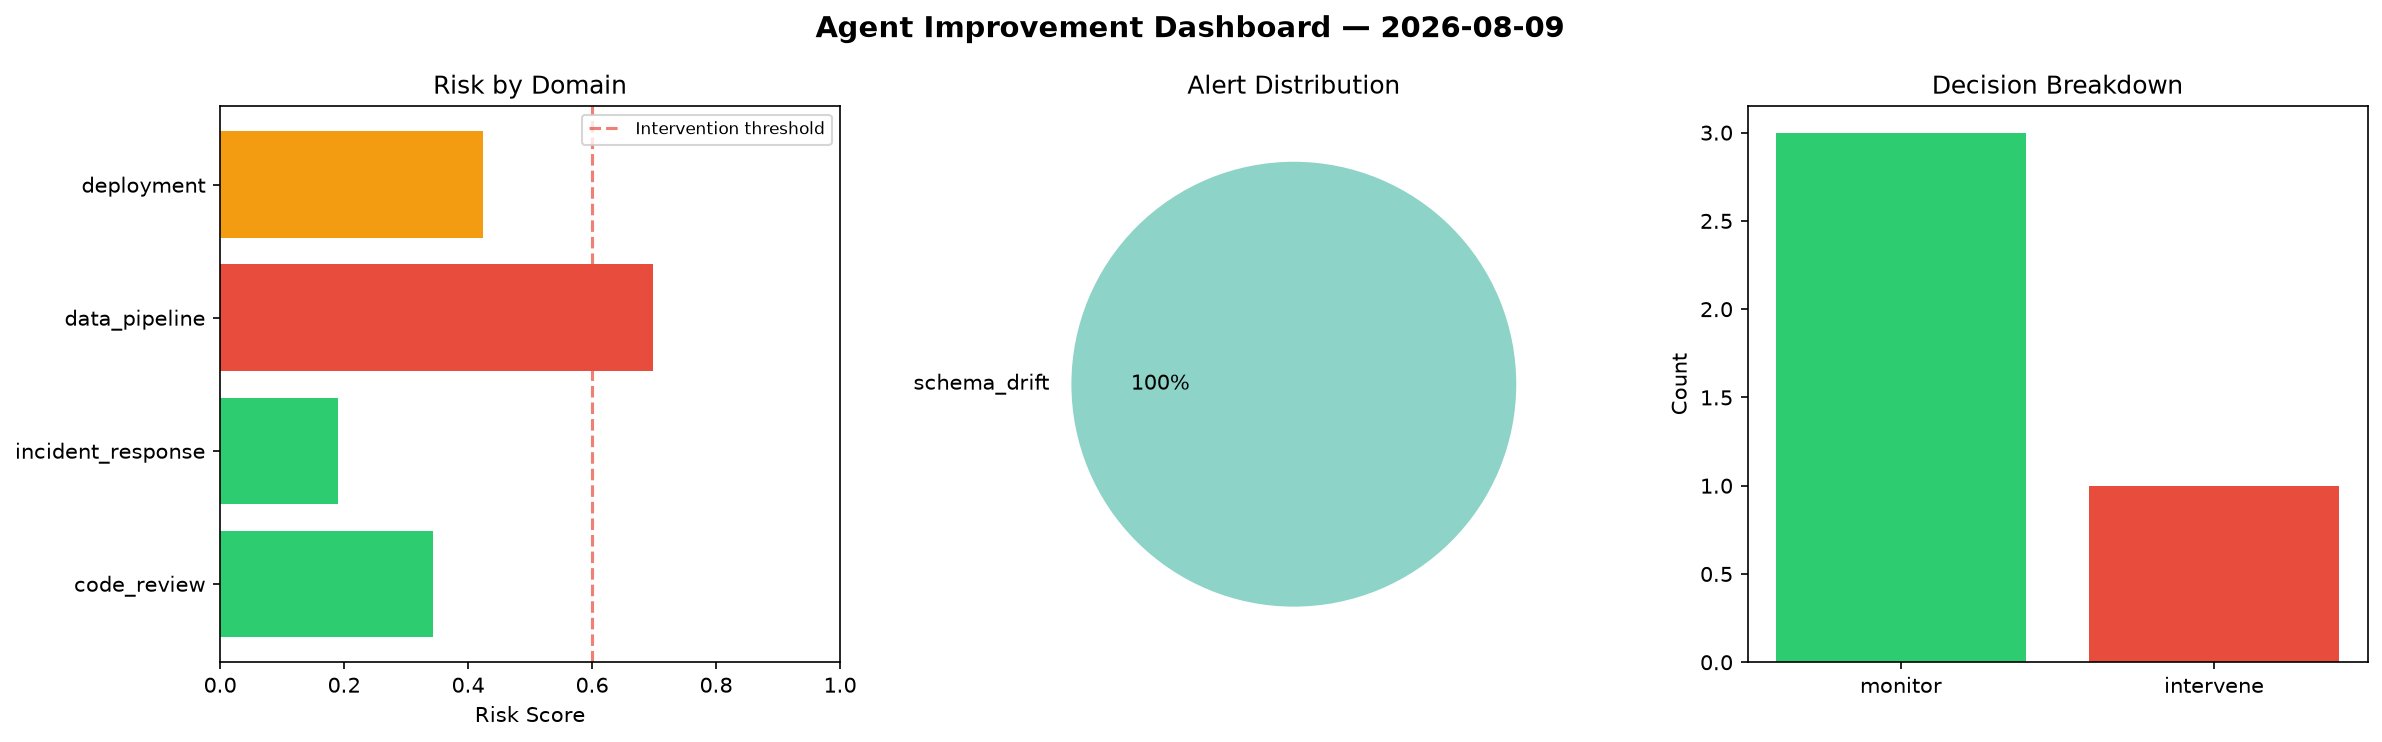
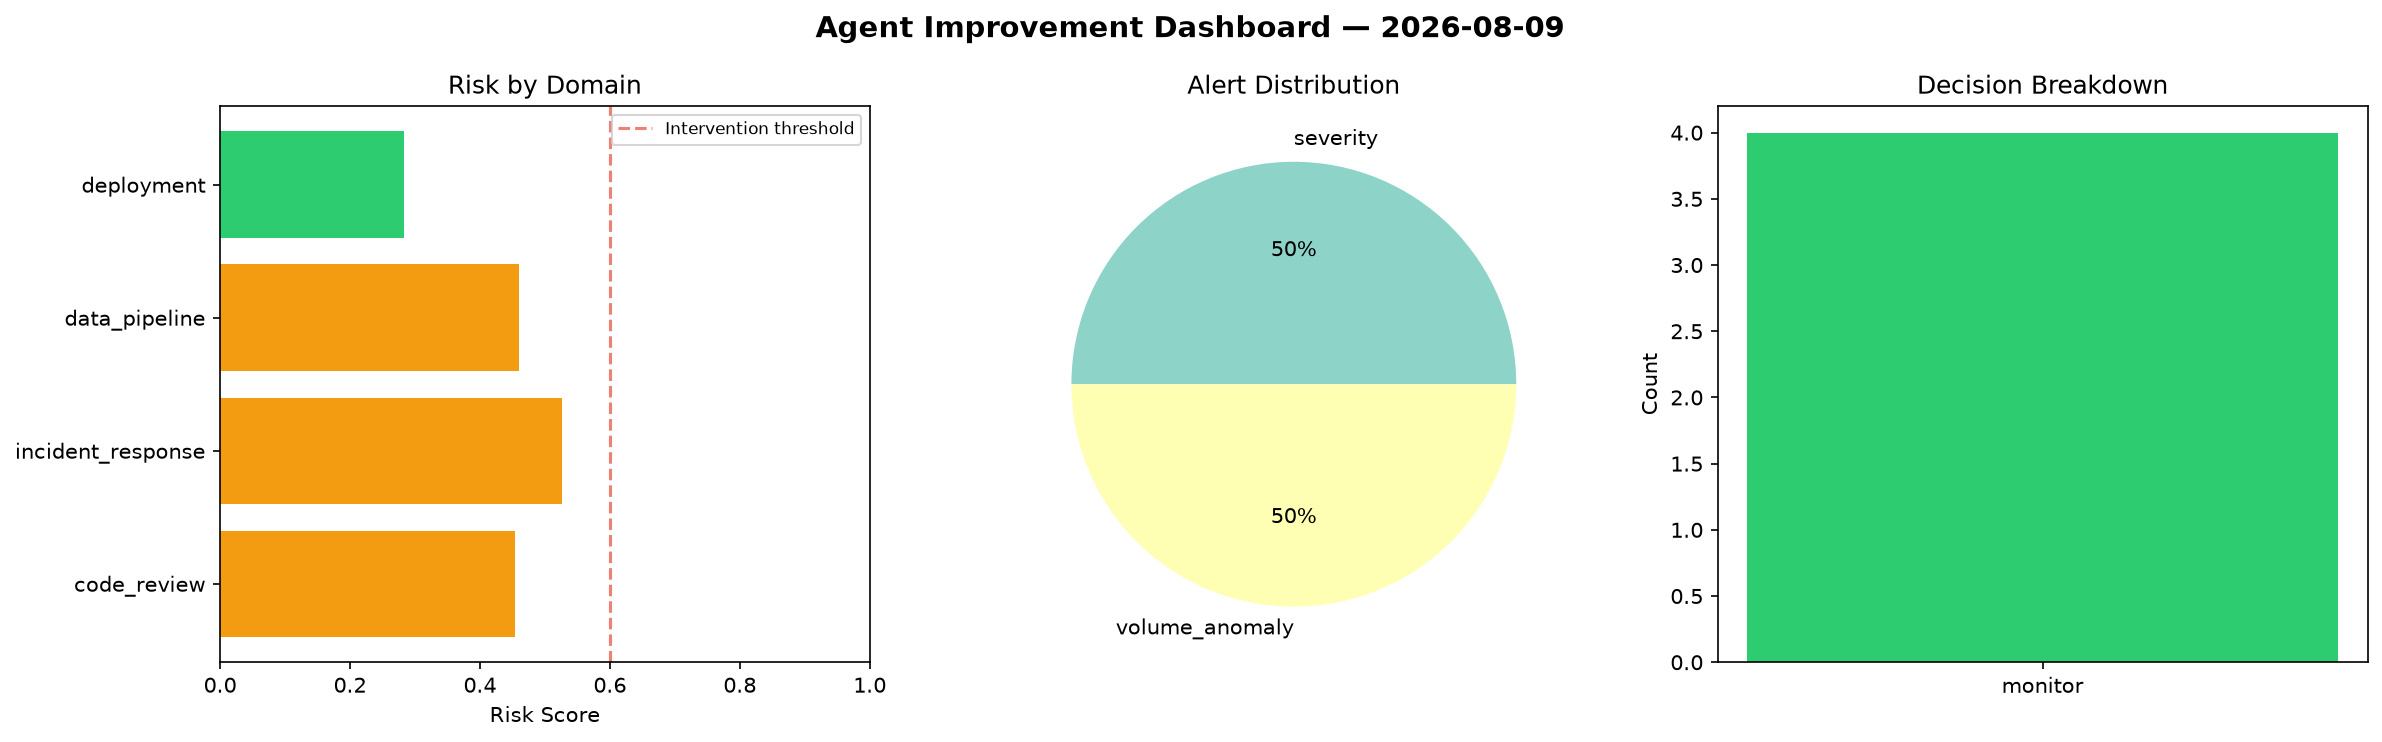
agent-improvement: daily cycle 2026-08-09T09:01

diff --git a/logs/2026-08-09.md b/logs/2026-08-09.md
@@ -1,6 +1,6 @@
 # Agent Improvement Report — 2026-08-09
 
-**Cycle ID:** `3b77c034` | **Avg Risk:** 0.4137 | **Interventions:** 1/4
+**Cycle ID:** `8a3601b9` | **Avg Risk:** 0.4308 | **Interventions:** 0/4
 
 ![Dashboard](2026-08-09_dashboard.png)
 
@@ -10,18 +10,18 @@
 
 | Domain | Risk Score | Decision | Alerts |
 |--------|-----------|----------|--------|
-| code_review | 0.3432 | monitor | none |
-| incident_response | 0.1902 | monitor | none |
-| data_pipeline | 0.6976 | intervene | schema_drift |
-| deployment | 0.4238 | monitor | none |
+| code_review | 0.4546 | monitor | none |
+| incident_response | 0.5256 | monitor | severity |
+| data_pipeline | 0.4604 | monitor | volume_anomaly |
+| deployment | 0.2825 | monitor | none |
 
 ## Delta vs Yesterday
 
 | Domain | Today | Yesterday | Change |
 |--------|-------|-----------|--------|
-| code_review | 0.3432 | 0.3267 | 📈 5.1% |
-| incident_response | 0.1902 | 0.6056 | 📉 -68.6% |
-| data_pipeline | 0.6976 | 0.6975 | ➡ 0.0% |
-| deployment | 0.4238 | 0.6393 | 📉 -33.7% |
+| code_review | 0.4546 | 0.3267 | 📈 39.1% |
+| incident_response | 0.5256 | 0.6056 | 📉 -13.2% |
+| data_pipeline | 0.4604 | 0.6975 | 📉 -34.0% |
+| deployment | 0.2825 | 0.6393 | 📉 -55.8% |
 
-**Refinement:** `{'adjustment': 'tighten_thresholds', 'trend': 'degrading', 'window': 4}`
+**Refinement:** `{'adjustment': 'maintain', 'trend': 'improving', 'window': 4}`
